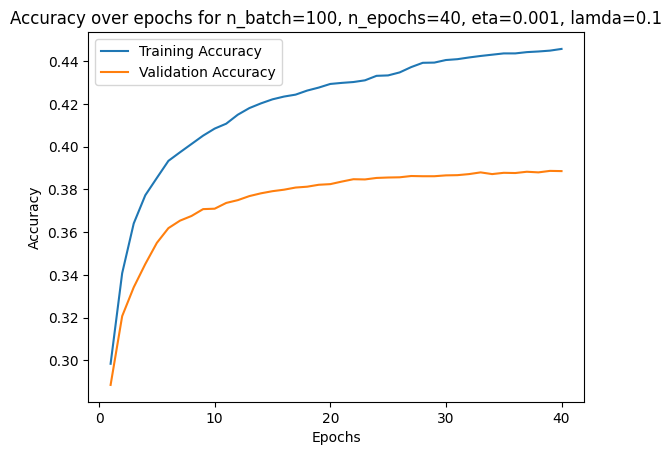
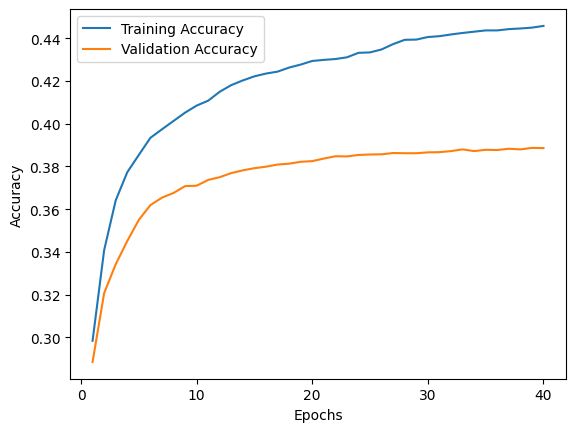
updated readme, datasets

Changed region(s): [[0.0, 0.0, 1.0, 0.9931], [0.9375, 0.8727, 0.9688, 0.9329]]

diff --git a/Assignment2/Assignment2.py b/Assignment2/Assignment2.py
@@ -1,12 +1,18 @@
 #!/usr/bin/env python3
 # -*- coding: utf-8 -*-
 # author: Max Dauber  dauber@kth.se
+"""
+This is the main file of Assignment 1 for DD2424 Deep Learning
+This assignment implements a one-layer neural network.
+"""
+
 
 import pickle
-import statistics
-import unittest
-import random
+# import statistics
+# import unittest
+# import random
 import matplotlib
+import matplotlib.pyplot as plt
 import numpy as np
 import scipy
 from mlnn import MLNN, GDparams
@@ -26,39 +32,82 @@ def LoadBatch(filename):
     with open(filename, 'rb') as f:
         dataDict = pickle.load(f, encoding='bytes')
 
-        X = (dataDict[b"data"] / 255).T
+        X = (dataDict[b"data"]).T
         y = dataDict[b"labels"]
         Y = (np.eye(10)[y]).T
 
+        meanX = np.mean(X)
+        stdX = np.std(X)
+        X = (X - meanX) / stdX
+
     return X, Y, y
 
-def montage(W):
-    """ Display the image for each label in W """
-    fig, ax = matplotlib.plots.subplots(2,5)
-    for i in range(2):
-        for j in range(5):
-            im  = W[i+j,:].reshape(32,32,3, order='F')
-            sim = (im-np.min(im[:]))/(np.max(im[:])-np.min(im[:]))
-            sim = sim.transpose(1,0,2)
-            ax[i][j].imshow(sim, interpolation='nearest')
-            ax[i][j].set_title("y="+str(5*i+j))
-            ax[i][j].axis('off')
-    matplotlib.plots.show()
 
+
+def GeneratePlots(neural_net, params):
+    x = list(range(1, len(neural_net.history_training_cost) + 1))
+    plt.plot(x, neural_net.history_training_cost, label="Training Loss")
+    plt.plot(x, neural_net.history_validation_cost, label="Validation Loss")
+    plt.title("Loss over epochs for n_batch=100, n_epochs=40, eta=" + str(params.eta) + ", lamda=" + str(params.lamda))
+    plt.xlabel("Epochs")
+    plt.ylabel("Loss")
+    plt.xticks([0, 10, 20, 30, 40])
+    plt.legend()
+    plt.savefig("Plots/loss_eta=" + str(params.eta) + "_lamda=" + str(params.lamda) + ".png", bbox_inches="tight")
+    plt.show()
+
+    plt.plot(x, neural_net.history_training_accuracy, label="Training Accuracy")
+    plt.plot(x, neural_net.history_validation_accuracy, label="Validation Accuracy")
+    plt.title("Accuracy over epochs for n_batch=100, n_epochs=40, eta=" + str(params.eta) + ", lamda=" + str(params.lamda))
+    plt.xlabel("Epochs")
+    plt.ylabel("Accuracy")
+    plt.xticks([0, 10, 20, 30, 40])
+    plt.legend()
+    plt.savefig("Plots/accuracy_eta=" + str(params.eta) + "_lamda=" + str(params.lamda) + ".png", bbox_inches="tight")
+    plt.show()
+
+def save_as_mat(data, name="model"):
+    """ Used to transfer a python model to matlab """
+    # import scipy.io as sio
+    # sio.savemat(name'.mat',{name:b})
 
 
 if __name__ == '__main__':
-    cifar_classes = ['airplane', 'automobile', 'bird', 'cat', 'deer', 'dog', 'frog', 'horse', 'ship', 'truck']
     np.random.seed(7)
-
-
     X_train, Y_train, y_train = LoadBatch("Datasets/cifar-10-batches-py/data_batch_1")
     X_validation, Y_validation, y_validation = LoadBatch("Datasets/cifar-10-batches-py/data_batch_2")
     X_test, Y_test, y_test = LoadBatch("Datasets/cifar-10-batches-py/test_batch")
 
-    neural_net = OLNN(X_train[:2, :100], Y_train[:, :100], )
+    data = {
+        'X_train': X_train,
+        'Y_train': Y_train,
+        'y_train': y_train,
+        'X_validation': X_validation,
+        'Y_validation': Y_validation,
+        'y_validation': y_validation,
+        'X_test': X_test,
+        'Y_test': Y_test,
+        'y_test': y_test
+    }
 
+    # Check Gradient Code is Correct
+    # neural_net = MLNN(data, X_train[:2, :100], Y_train[:, :100])
     # neural_net.CheckGradients(X_train[:2, :100], Y_train[:, :100])
 
-    params = GDparams(n_batch = 100, eta = 0.01, n_epochs = 40)
-    neural_net.MiniBatchGD(X_train, Y_train, X_validation, Y_validation, params)
+    # Test Neural Network is Running
+    # neural_net = OLNN(data, X_train, Y_train)
+    # params = GDparams(n_batch = 100, eta = 0.001, n_epochs = 20, lamda = 0)
+    # neural_net.MiniBatchGD(X_train, Y_train, y_train, params, neural_net.W, neural_net.b)
+
+    # Run training for all parameter Settings
+    # lamdas = [0, 0, .1, 1]
+    # etas = [.1, .001, .001, .001]
+    # for iter in range(4):
+    #     neural_net = MLNN(data, X_train, Y_train)
+    #     params = GDparams(n_batch=100, eta=etas[iter], n_epochs=40, lamda = lamdas[iter])
+    #     print("MiniBatch Training with n_batch=100, n_epochs=40, eta=", etas[iter], ", lamda=", lamdas[iter])
+    #     neural_net.MiniBatchGD(X_train, Y_train, y_train, params, neural_net.W, neural_net.b)
+    #     GeneratePlots(neural_net, params)
+
+
+

diff --git a/Assignment1/olnn.py b/Assignment1/olnn.py
@@ -316,7 +316,8 @@ class OLNN:
                       " | Train cost: ", "{:.10f}".format(training_cost),
                       " | Validation accuracy: ", "{:.4f}".format(validation_accuracy),
                       " | Validation cost: ", "{:.10f}".format(validation_cost))
-        print("Test Accuracy: ", self.ComputeAccuracy(self.X_test, self.y_test, W, b))
+        print("Final Test Accuracy: ",
+              "{:.10f}".format(self.ComputeAccuracy(self.X_test, self.y_test, W, b) * 100),  "%")
         self.ShowWeights(W, GDparams)
 
     def GeneratePlots(self):
@@ -340,8 +341,7 @@ class OLNN:
         """ Display the image for each label in W """
         cifar_classes = ['airplane', 'automobile', 'bird', 'cat', 'deer', 'dog', 'frog', 'horse', 'ship', 'truck']
         fig, ax = plt.subplots(2, 5)
-        fig.suptitle(
-            "Weights learned for n_batch=100, n_epochs=40, eta=" + str(params.eta) + ", lamda=" + str(params.lamda))
+        #fig.suptitle("Weights learned for n_batch=100, n_epochs=40, eta=" + str(params.eta) + ", lamda=" + str(params.lamda))
         for i in range(2):
             for j in range(5):
                 img = W[i * 5 + j, :].reshape((32, 32, 3), order='F')

diff --git a/Assignment1/Assignment1.py b/Assignment1/Assignment1.py
@@ -48,7 +48,7 @@ def GeneratePlots(neural_net, params):
     x = list(range(1, len(neural_net.history_training_cost) + 1))
     plt.plot(x, neural_net.history_training_cost, label="Training Loss")
     plt.plot(x, neural_net.history_validation_cost, label="Validation Loss")
-    plt.title("Loss over epochs for n_batch=100, n_epochs=40, eta=" + str(params.eta) + ", lamda=" + str(params.lamda))
+    #plt.title("Loss over epochs for n_batch=100, n_epochs=40, eta=" + str(params.eta) + ", lamda=" + str(params.lamda))
     plt.xlabel("Epochs")
     plt.ylabel("Loss")
     plt.xticks([0, 10, 20, 30, 40])
@@ -58,7 +58,7 @@ def GeneratePlots(neural_net, params):
 
     plt.plot(x, neural_net.history_training_accuracy, label="Training Accuracy")
     plt.plot(x, neural_net.history_validation_accuracy, label="Validation Accuracy")
-    plt.title("Accuracy over epochs for n_batch=100, n_epochs=40, eta=" + str(params.eta) + ", lamda=" + str(params.lamda))
+    #plt.title("Accuracy over epochs for n_batch=100, n_epochs=40, eta=" + str(params.eta) + ", lamda=" + str(params.lamda))
     plt.xlabel("Epochs")
     plt.ylabel("Accuracy")
     plt.xticks([0, 10, 20, 30, 40])

diff --git a/Assignment1/README.md b/Assignment1/README.md
@@ -1,5 +1,5 @@
 ### Assignment1
 
 A 1-layer neural network was implemented from scratch using Python. The neural network is trained using MiniBatch gradient descent which is applied to a cost function that computes cross-entropy loss of the classifier applied to the labeled training data and an L2 regularization term on the weight matrix. The dataset CIFAR10 is used, which consists of 10,000 32x32 images corresponding to 10 classes of objects. 
-1. Download [CIFAR-10 dataset](https://www.cs.toronto.edu/~kriz/cifar.html) to a folder 'dataset'
+1. Download [CIFAR-10 dataset](https://www.cs.toronto.edu/~kriz/cifar.html) to a folder 'Datasets' and ensure you are using the Python version
 2. Run Assignment1.py
